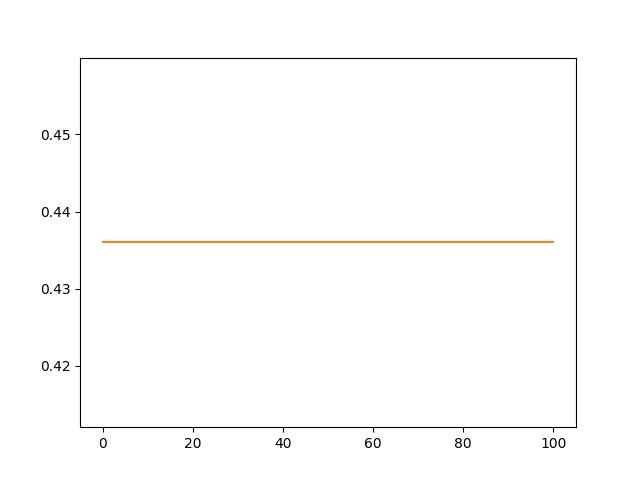
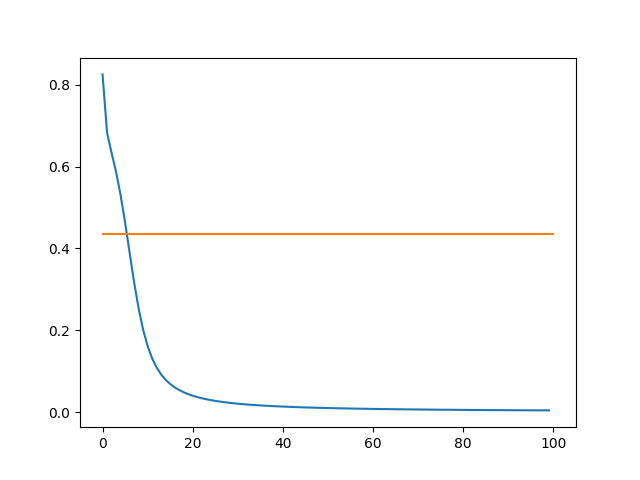
Fixing cost history bug

diff --git a/NeuralNetworks/GenericNetwork/network.py b/NeuralNetworks/GenericNetwork/network.py
@@ -6,11 +6,10 @@ class Network:
         self.forward_propagator = forward_propagator
         self.parameters = parameters
         self.trainer = trainer
-        self.cost_history = []
 
     def fit(self):
-        self.trainer.run(self.parameters)
-        return FitResultsFactory.build(self)
+        cost_history = self.trainer.run(self.parameters)
+        return FitResultsFactory.build(self, cost_history)
 
     def predict(self, input, threshold):
         forward_propogation_results = self.forward_propagator.execute(self.parameters, input)

diff --git a/NeuralNetworks/GenericNetwork/fit_results_factory.py b/NeuralNetworks/GenericNetwork/fit_results_factory.py
@@ -1,5 +1,5 @@
 from fit_results import FitResults
 
 class FitResultsFactory:
-    def build(network):
-        return FitResults(network.cost_history, network.parameters)
+    def build(network, cost_history):
+        return FitResults(cost_history, network.parameters)

diff --git a/NeuralNetworks/GenericNetwork/trainer.py b/NeuralNetworks/GenericNetwork/trainer.py
@@ -22,4 +22,4 @@ class Trainer:
             self.cost_history.append(self.cost_calculator.execute(self.training_output, results.get_last_A()))
 
 
-        return parameters, self.cost_history
+        return self.cost_history
